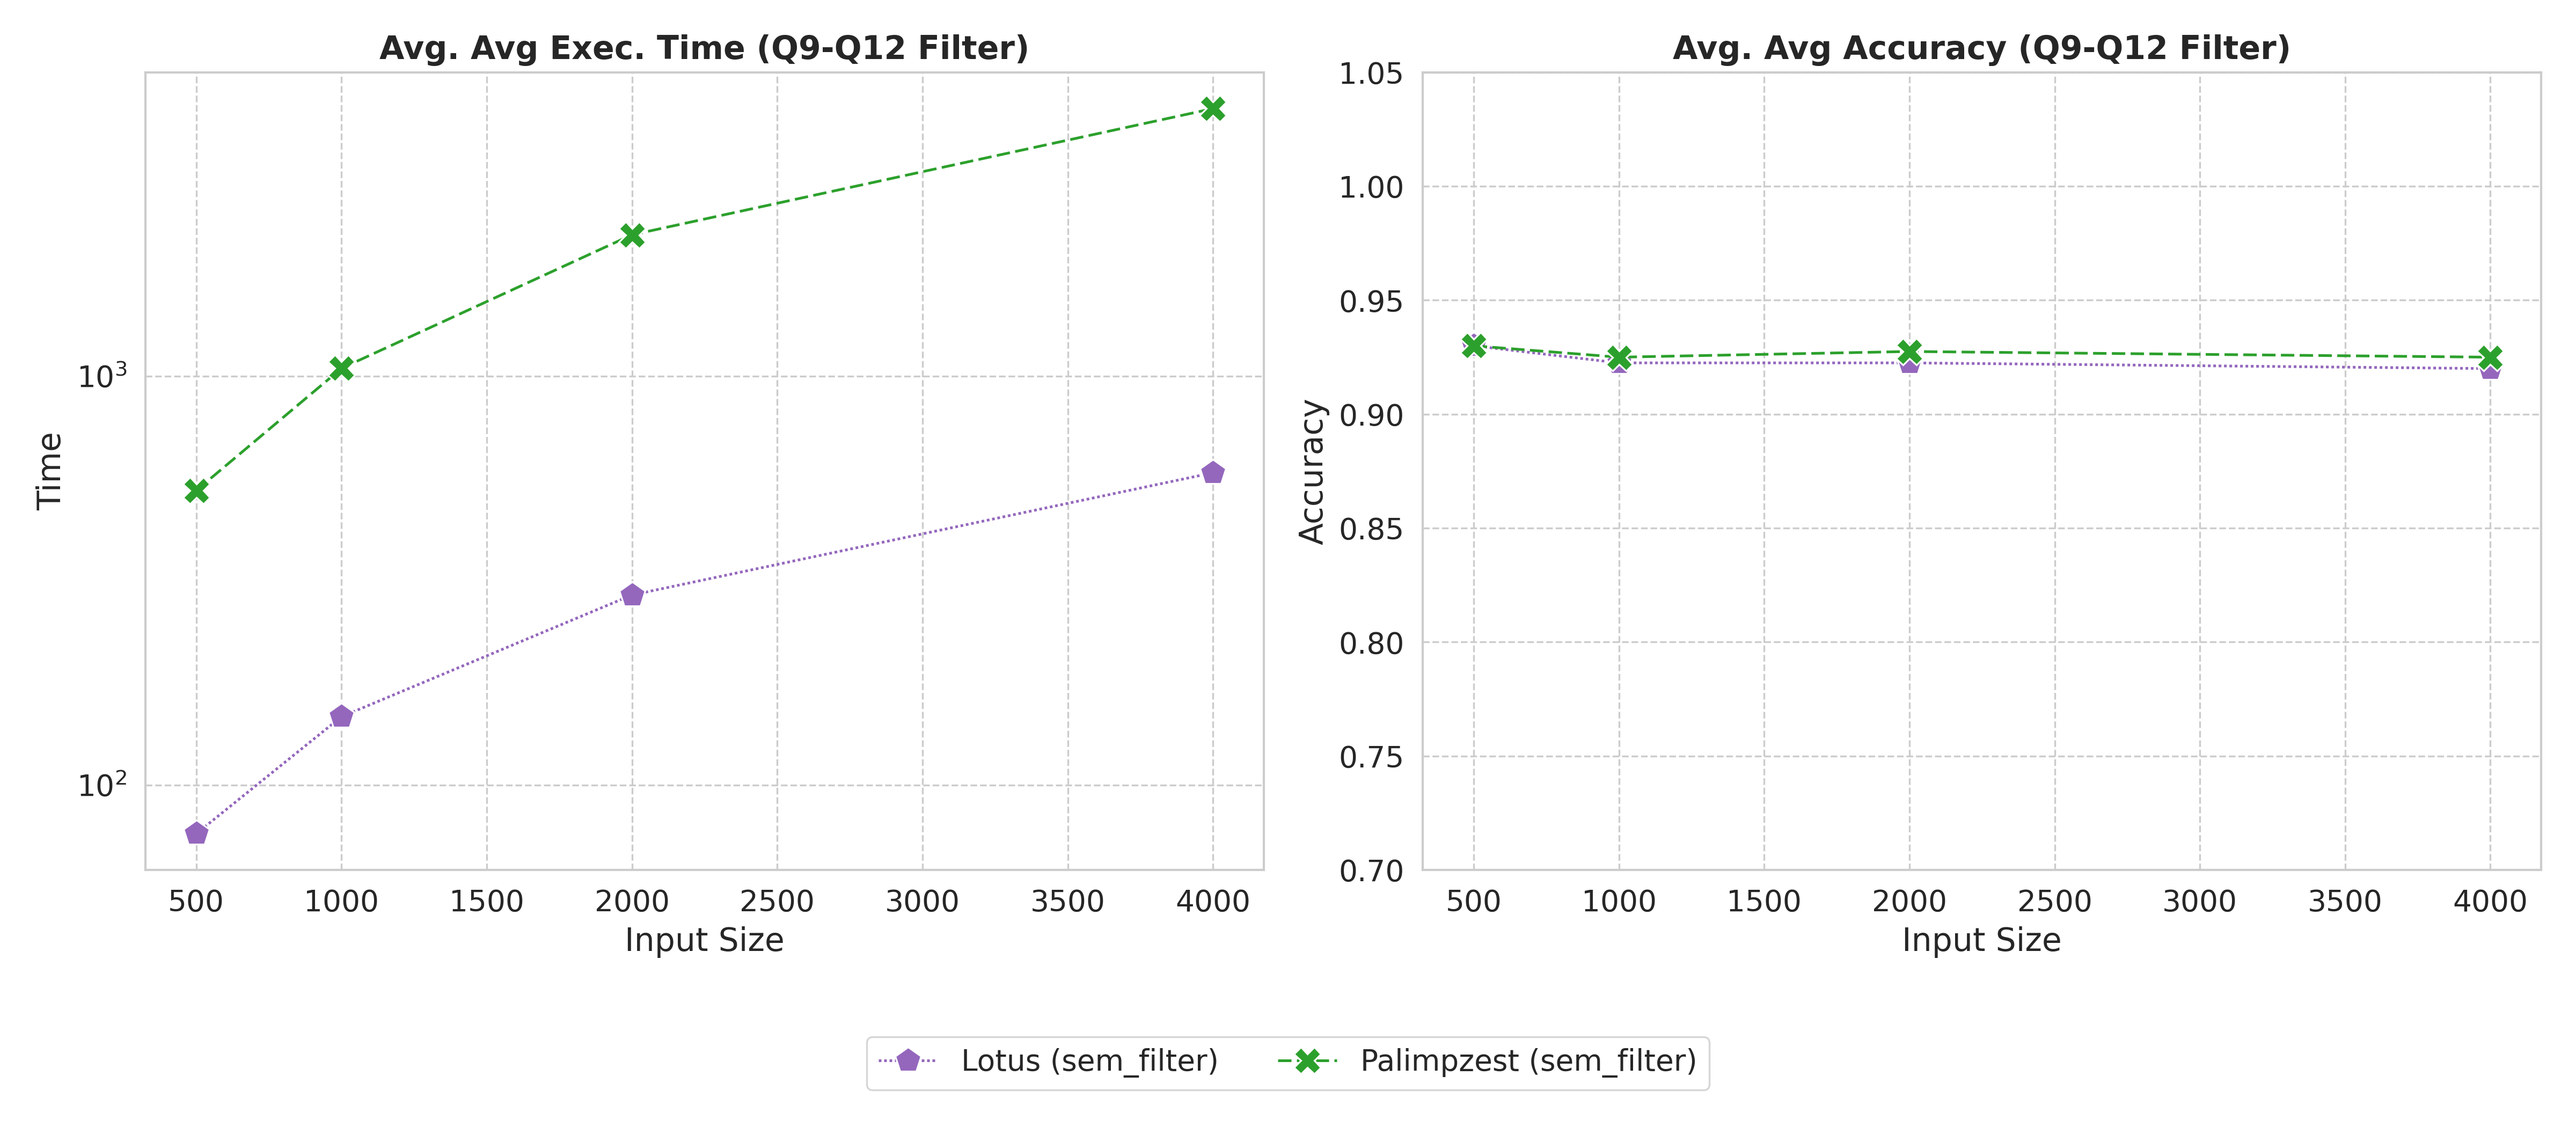
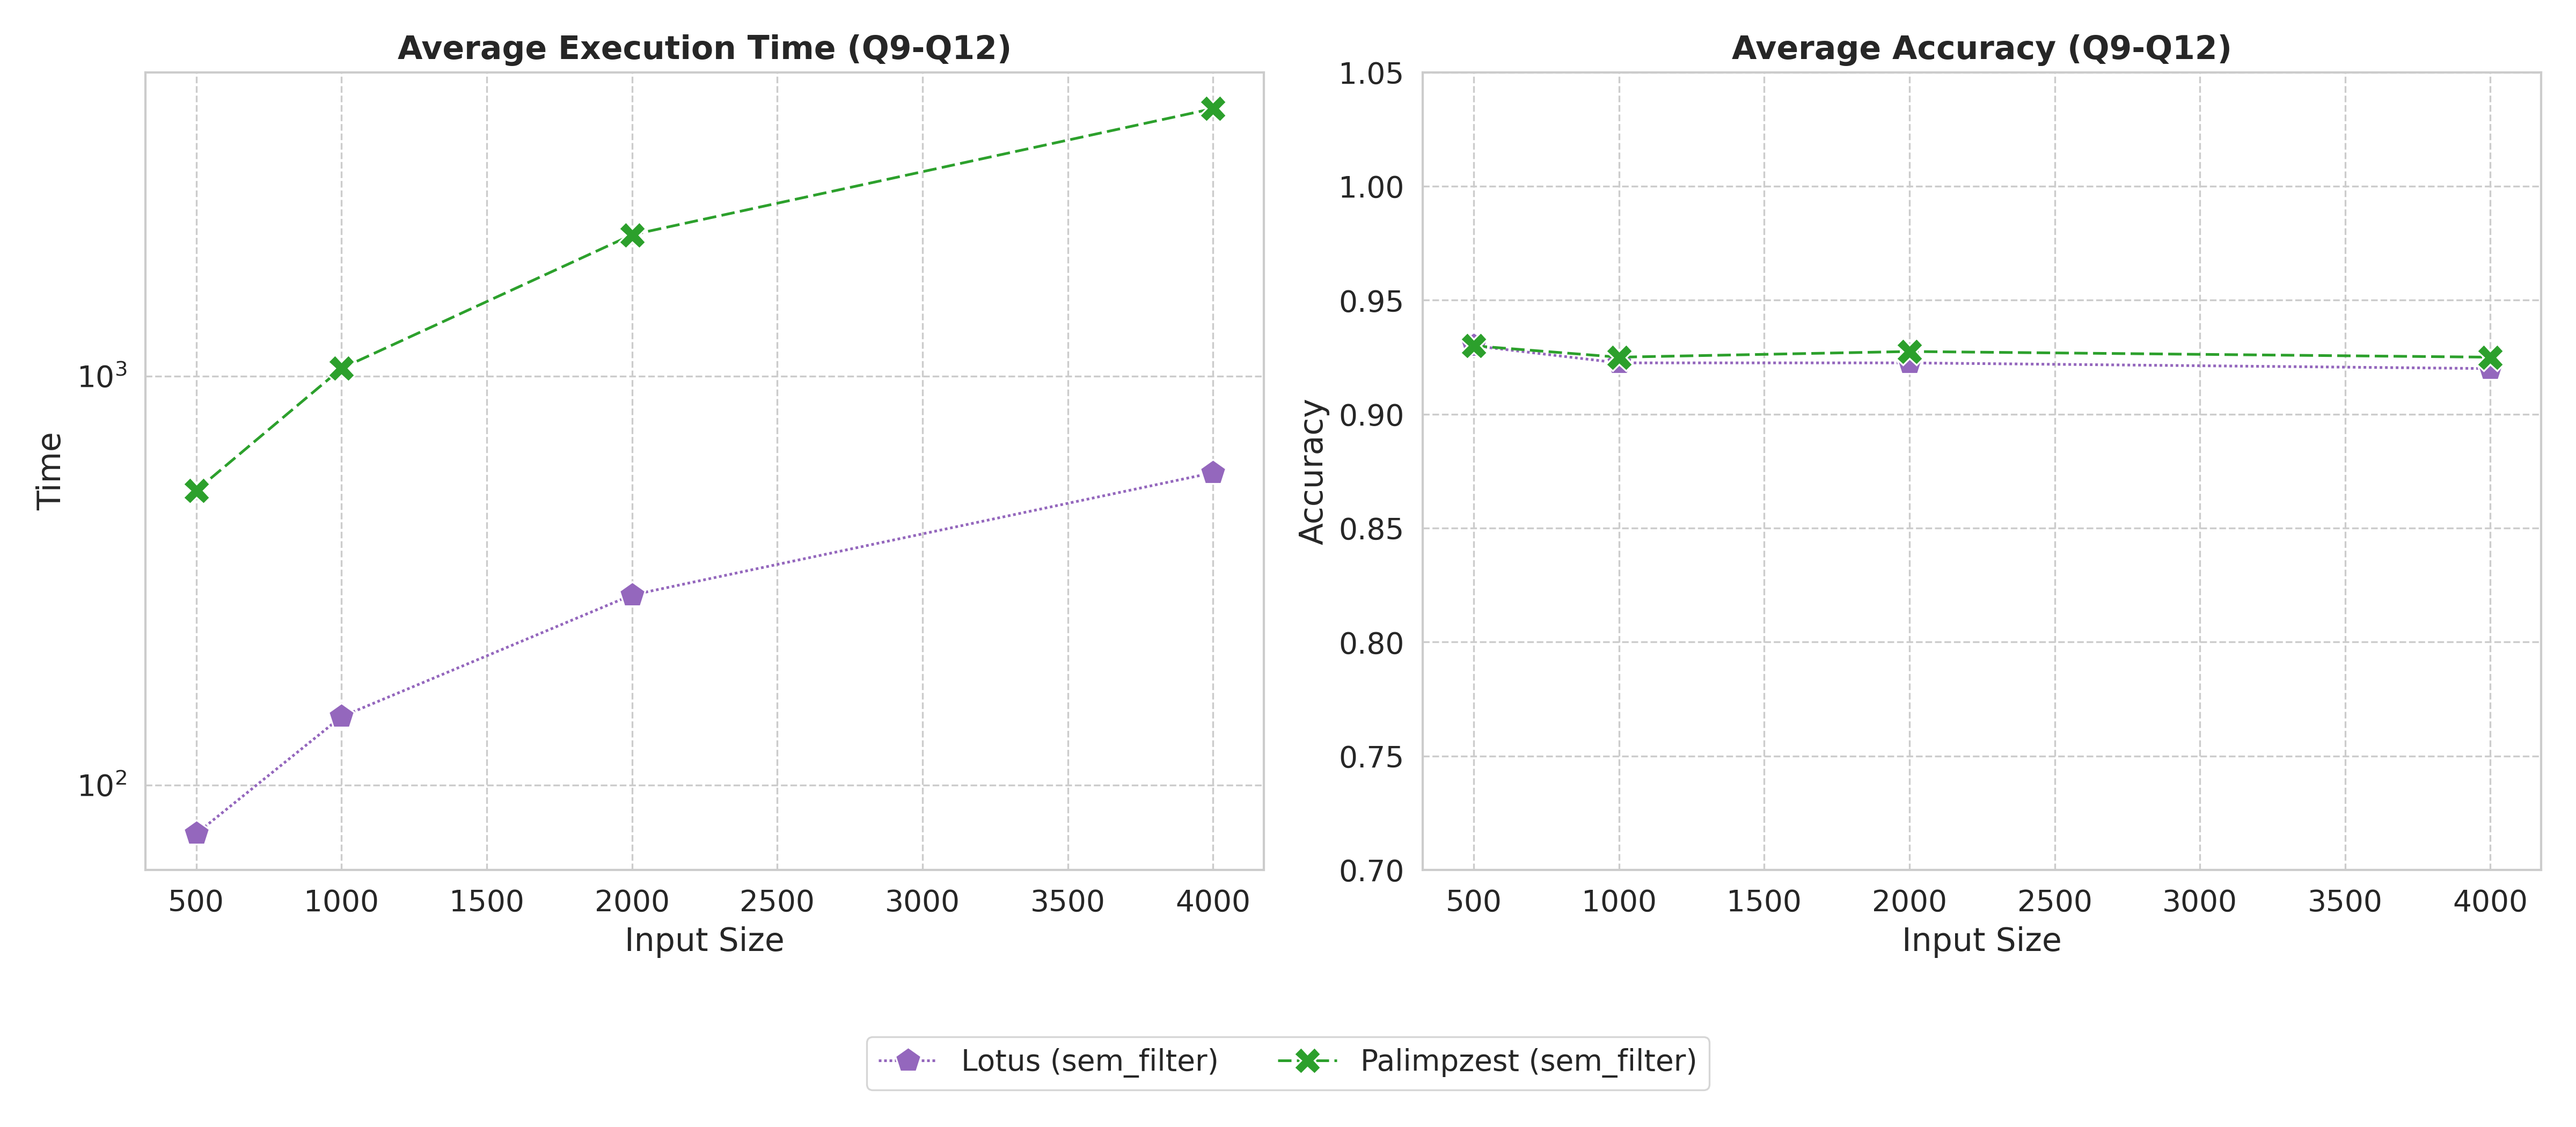
changed titles for plots

Changed region(s): [[0.125, 0.031, 0.4062, 0.0619], [0.6562, 0.031, 0.9062, 0.0619]]

diff --git a/plots.py b/plots.py
@@ -173,12 +173,12 @@ def plot_case_1_6():
     plt.tight_layout(rect=[0, 0.05, 1, 1])
     plt.savefig('figures/case_1_6_individual.png', dpi=300)
 
-    # Aggregate
+    # --- Aggregate Plot ---
     agg = df.groupby(["Label", "Input Size"])[["Time", "Accuracy"]].mean().reset_index()
     fig, (ax1, ax2) = plt.subplots(1, 2, figsize=(16, 7))
-    for ax, y_v, tit in zip([ax1, ax2], ["Time", "Accuracy"], ["Exec. Time", "Accuracy"]):
+    for ax, y_v, tit in zip([ax1, ax2], ["Time", "Accuracy"], ["Average Execution Time", "Average Accuracy"]):
         sns.lineplot(data=agg, x="Input Size", y=y_v, hue="Label", style="Label", palette=palette, markers=markers, dashes=dashes, markersize=12, ax=ax, legend=True)
-        ax.set_title(f"Avg. {tit} (Q1-Q6)", fontweight='bold')
+        ax.set_title(f"{tit} (Q1-Q6)", fontweight='bold')
         if y_v == "Accuracy": ax.set_ylim(0, 1.05)
         ax.get_legend().remove()
     
@@ -214,11 +214,11 @@ def plot_case_7_8():
     # --- Aggregate Plot ---
     agg = df.groupby(["Label", "Input Size"])[["Time", "Accuracy", "F1"]].mean().reset_index()
     fig, axes = plt.subplots(1, 3, figsize=(20, 7))
-    metrics, titles = ["Time", "Accuracy", "F1"], ["Avg Exec. Time", "Avg Accuracy", "Avg F1 Score"]
+    metrics, titles = ["Time", "Accuracy", "F1"], ["Average Execution Time", "Average Accuracy", "Average F1 Score"]
 
     for i, (metric, title) in enumerate(zip(metrics, titles)):
         sns.lineplot(data=agg, x="Input Size", y=metric, hue="Label", style="Label", palette=palette, markers=markers, dashes=dashes, markersize=12, ax=axes[i], legend=True)
-        axes[i].set_title(title, fontweight='bold')
+        axes[i].set_title(f"{title} (Q7-Q8)", fontweight='bold')
         if metric == "Time": axes[i].set_yscale('log')
         else: axes[i].set_ylim(0, 1.05)
         axes[i].get_legend().remove()
@@ -253,9 +253,9 @@ def plot_case_9_12():
     # --- Aggregate Plot ---
     agg = df.groupby(["Label", "Input Size"])[["Time", "Accuracy"]].mean().reset_index()
     fig, (ax1, ax2) = plt.subplots(1, 2, figsize=(16, 7))
-    for ax, y_v, tit in zip([ax1, ax2], ["Time", "Accuracy"], ["Avg Exec. Time", "Avg Accuracy"]):
+    for ax, y_v, tit in zip([ax1, ax2], ["Time", "Accuracy"], ["Average Execution Time", "Average Accuracy"]):
         sns.lineplot(data=agg, x="Input Size", y=y_v, hue="Label", style="Label", palette=palette, markers=markers, dashes=dashes, markersize=12, ax=ax, legend=True)
-        ax.set_title(f"Avg. {tit} (Q9-Q12 Filter)", fontweight='bold')
+        ax.set_title(f"{tit} (Q9-Q12)", fontweight='bold')
         if y_v == "Time": ax.set_yscale('log')
         else: ax.set_ylim(0.7, 1.05)
         ax.get_legend().remove()
@@ -290,9 +290,9 @@ def plot_optimized_9_12():
     # --- Aggregate Plot ---
     agg = df.groupby(["Label", "Input Size"])[["Time", "Accuracy"]].mean().reset_index()
     fig, (ax1, ax2) = plt.subplots(1, 2, figsize=(16, 7))
-    for ax, y_v, tit in zip([ax1, ax2], ["Time", "Accuracy"], ["Avg Exec. Time", "Avg Accuracy"]):
+    for ax, y_v, tit in zip([ax1, ax2], ["Time", "Accuracy"], ["Average Execution Time", "Average Accuracy"]):
         sns.lineplot(data=agg, x="Input Size", y=y_v, hue="Label", style="Label", palette=palette, markers=markers, dashes=dashes, markersize=12, ax=ax, legend=True)
-        ax.set_title(f"Avg. {tit} (Lotus Optimization)", fontweight='bold')
+        ax.set_title(f"{tit} (Lotus Optimization)", fontweight='bold')
         if y_v == "Time": ax.set_yscale('log')
         else: ax.set_ylim(0.7, 1.05)
         ax.get_legend().remove()
@@ -327,9 +327,9 @@ def plot_case_13_15():
     # --- Aggregate Plot ---
     agg = df.groupby(["Label", "Input Size"])[["Time", "Accuracy"]].mean().reset_index()
     fig, (ax1, ax2) = plt.subplots(1, 2, figsize=(16, 7))
-    for ax, y_v, tit in zip([ax1, ax2], ["Time", "Accuracy"], ["Avg Exec. Time", "Avg Accuracy"]):
+    for ax, y_v, tit in zip([ax1, ax2], ["Time", "Accuracy"], ["Average Execution Time", "Average Accuracy"]):
         sns.lineplot(data=agg, x="Input Size", y=y_v, hue="Label", style="Label", palette=palette, markers=markers, dashes=dashes, markersize=12, ax=ax, legend=True)
-        ax.set_title(f"Avg. {tit}", fontweight='bold')
+        ax.set_title(f"{tit}", fontweight='bold')
         if y_v == "Time": ax.set_yscale('log')
         else: ax.set_ylim(-0.05, 1.05)
         ax.get_legend().remove()
@@ -381,11 +381,11 @@ def plot_case_16_18():
     agg = df.groupby(["Label", "Input Size"])[["Time", "Accuracy"]].mean().reset_index()
     fig, (ax1, ax2) = plt.subplots(1, 2, figsize=(16, 7))
     
-    for ax, y_v, tit in zip([ax1, ax2], ["Time", "Accuracy"], ["Avg Exec. Time", "Avg Accuracy"]):
+    for ax, y_v, tit in zip([ax1, ax2], ["Time", "Accuracy"], ["Average Execution Time", "Average Accuracy"]):
         sns.lineplot(data=agg, x="Input Size", y=y_v, hue="Label", style="Label", 
                      palette=palette, markers=markers, dashes=dashes, markersize=12, 
                      ax=ax, legend=True)
-        ax.set_title(f"Avg. {tit}", fontweight='bold')
+        ax.set_title(f"{tit}", fontweight='bold')
         ax.set_xlabel("Input Size")
         ax.set_ylabel(y_v if y_v == "Time" else "Accuracy")
         
